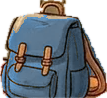
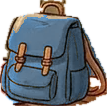
Garden bench bags no longer cut flat at the bottom (cut-out reaches below the bag's outline)

diff --git a/index.html b/index.html
@@ -4792,8 +4792,8 @@ const ART = {
   benhome: () => `<image href="assets/places/picnic-storyboard/ben-home.png" width="1672" height="941"/>`,
   // the two bags on the bench: the picnic table's backpack cut out and tinted (scripts/cut-picnic-backpack.py)
   garden: () => `<image href="assets/places/picnic-storyboard/garden.webp" width="1376" height="768"/>
-    <image href="assets/places/picnic-storyboard/backpack-blue.png" x="985" y="276" width="107" height="98"/>
-    <image href="assets/places/picnic-storyboard/backpack-red.png" x="1112" y="276" width="107" height="98"/>`,
+    <image href="assets/places/picnic-storyboard/backpack-blue.png" x="985" y="276" width="107" height="106"/>
+    <image href="assets/places/picnic-storyboard/backpack-red.png" x="1112" y="276" width="107" height="106"/>`,
   lobby: () => `<image href="assets/places/picnic-storyboard/lobby-higgsfield.webp" width="1376" height="768"/>`
 };
 // Floor below each picture's bottom edge (Higgsfield outpaint, cut at the seam). Only the

diff --git a/scripts/cut-picnic-backpack.py b/scripts/cut-picnic-backpack.py
@@ -1,11 +1,12 @@
 """The picnic table's blue backpack (picnic-wide.png) cut out with no credits, for the garden bench: the drawing's dark
 outline closes the bag, so everything reachable from the crop's edge without crossing it is background; the green
 showing through the handle loop is cleared too. -> assets/places/picnic-storyboard/backpack-blue.png and
-backpack-red.png (the same bag with its blue turned red, Ollie's)."""
+backpack-red.png (the same bag with its blue turned red, Ollie's). The crop and the traced silhouette reach below the
+bag's bottom outline (y 424), or the bag is cut flat (user report)."""
 import colorsys
 from collections import deque
 from PIL import Image, ImageDraw, ImageFilter
-SRC, BOX = 'assets/places/picnic-storyboard/picnic-wide.png', (975, 310, 1100, 421)
+SRC, BOX = 'assets/places/picnic-storyboard/picnic-wide.png', (975, 310, 1100, 430)
 im = Image.open(SRC).convert('RGB').crop(BOX)
 W, H = im.size; px = im.load()
 hsv = [[colorsys.rgb_to_hsv(*(c / 255 for c in px[x, y])) for x in range(W)] for y in range(H)]
@@ -22,15 +23,17 @@ while q:
     bg[y][x] = True; q.extend(((x + 1, y), (x - 1, y), (x, y + 1), (x, y - 1)))
 # the bag's rough silhouette, traced by hand: the trunk and table lines touching its outline stay outside
 outline = Image.new('L', (W, H)); ImageDraw.Draw(outline).polygon([(p[0] / 4, p[1] / 4) for p in
-    [(200, 38), (300, 38), (302, 96), (348, 104), (384, 170), (424, 262), (462, 330), (466, 400), (420, 426), (58, 426),
-     (40, 330), (66, 200), (88, 110), (150, 94), (202, 84)]], fill=255)
+    [(200, 38), (300, 38), (302, 96), (348, 104), (384, 170), (424, 262), (462, 330), (468, 400), (456, 420), (400, 440),
+     (372, 458), (100, 458), (76, 444), (44, 410), (40, 330), (66, 200), (88, 110), (150, 94), (202, 84)]], fill=255)
 op = outline.load()
 alpha = Image.new('L', (W, H)); ap = alpha.load()
 for y in range(H):
     for x in range(W):
         h, s, v = hsv[y][x]
         green = 60 / 360 <= h <= 170 / 360 and s > .2 and v > .3
-        ap[x, y] = 0 if bg[y][x] or green or not op[x, y] else 255
+        # the table showing through the shoulder strap's loop (bright orange; the strap itself is a darker brown)
+        table = 95 <= x <= 112 and 83 <= y <= 103 and 15 / 360 <= h <= 45 / 360 and v > .7
+        ap[x, y] = 0 if bg[y][x] or green or table or not op[x, y] else 255
 # only the bag itself: the largest piece (stray bits of trunk or table edge enclosed by other lines go)
 seen = [[False] * W for _ in range(H)]; best = []
 for sy in range(H):

diff --git a/HANDOFF.md b/HANDOFF.md
@@ -490,7 +490,7 @@ node server.js            # http://localhost:5173/
 | 용도 | 적용 파일 (`assets/` 아래) | 비고 |
 |---|---|---|
 | 도서관 | `places/library-higgsfield-v2.png` | 사용자 제작, 1376×768 |
-| 소풍 가방 장소 그림 | `places/picnic-storyboard/picnic-wide.png`(소풍 탁자), `cafe-day.png`(낮의 호수 카페), `ben-home.png`(벤의 집), `garden.webp`(정원), `picnic-documents.png`(로지가 맡긴 가방 소지품 사진) | 사용자 제공·Codex 편집·기존 Higgsfield 그림(출처는 같은 폴더 README). 정원의 두 가방은 오려 색 입힌 `backpack-blue/red.png`, 회사 로비는 `lobby-higgsfield.webp`, 로지의 가방 소지품은 `picnic-rosie-bag.webp`. 대화 바닥 확장은 다섯 장소 모두 `<id>-floor.jpg`(로비는 `lobby-floor.webp`). 도서관 사건의 밤 카페는 그대로 둔다 |
+| 소풍 가방 장소 그림 | `places/picnic-storyboard/picnic-wide.png`(소풍 탁자), `cafe-day.png`(낮의 호수 카페), `ben-home.png`(벤의 집), `garden.webp`(정원), `picnic-documents.png`(로지가 맡긴 가방 소지품 사진) | 사용자 제공·Codex 편집·기존 Higgsfield 그림(출처는 같은 폴더 README). 정원의 두 가방은 소풍 탁자 그림의 가방을 오려 색 입힌 `backpack-blue/red.png`(`scripts/cut-picnic-backpack.py`, 107×106, 오릴 범위와 손으로 그린 윤곽이 가방 바닥선 아래까지 와야 바닥이 일자로 잘리지 않는다), 회사 로비는 `lobby-higgsfield.webp`, 로지의 가방 소지품은 `picnic-rosie-bag.webp`. 대화 바닥 확장은 다섯 장소 모두 `<id>-floor.jpg`(로비는 `lobby-floor.webp`). 도서관 사건의 밤 카페는 그대로 둔다 |
 | 아직 그림이 없는 인물 | `ui/icons-v2/pending.png`, `pendingSVG` | 벤·미아와 올리·노라의 임시 점선 실루엣(Claude가 PIL·SVG로 그림, 크레딧 없음) |
 | 피해자 분필 윤곽선 | `places/library-chalk-owl.png` | Claude 제작(Nano Banana 2.1, job 418fefc0), 640×450 투명 PNG. 검은 배경 위 흰 분필 선을 밝기로 투명도를 만들고 선을 조금 굵혔다. 원본 `library-chalk-owl-original.png` |
 | 빵집 | `places/bakery-higgsfield.png` | 사용자 제작, 1376×768. 계산대 쪽지를 지우고 예약 주문 칠판·쓰레기통 신문, 오븐 속 탄 파이를 그려 넣은 판(Claude, `assets/places/README.md`) |
